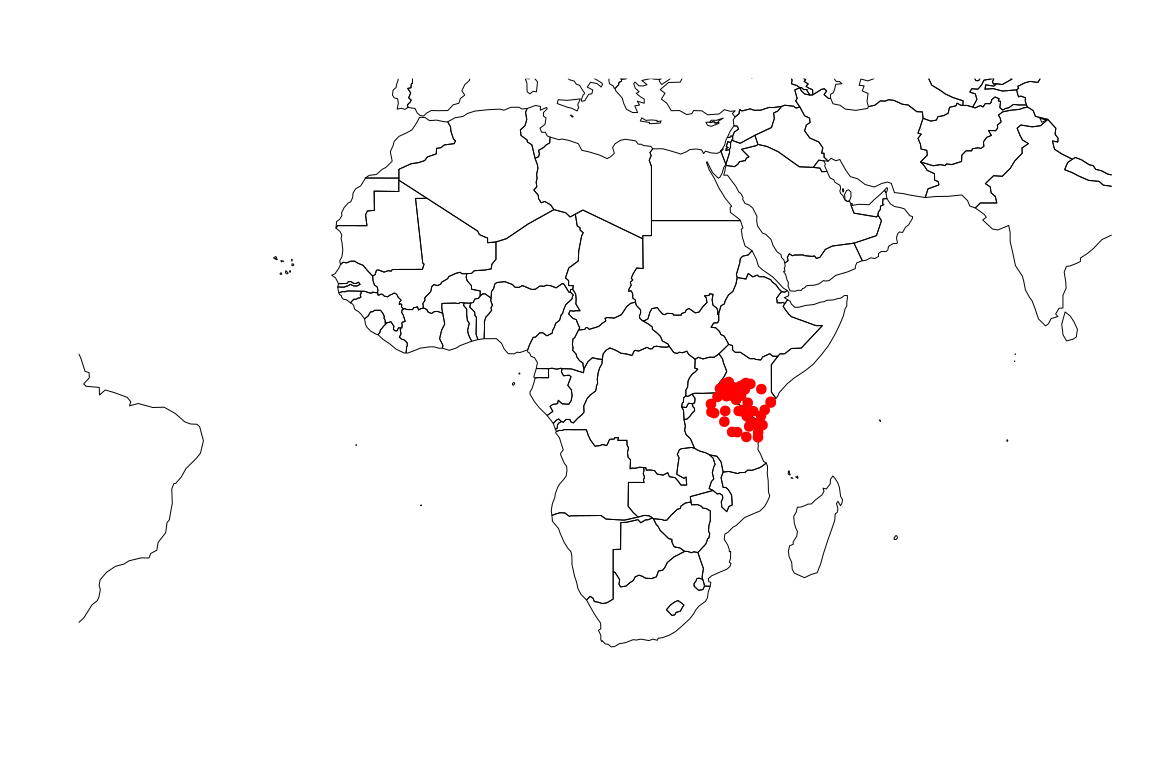
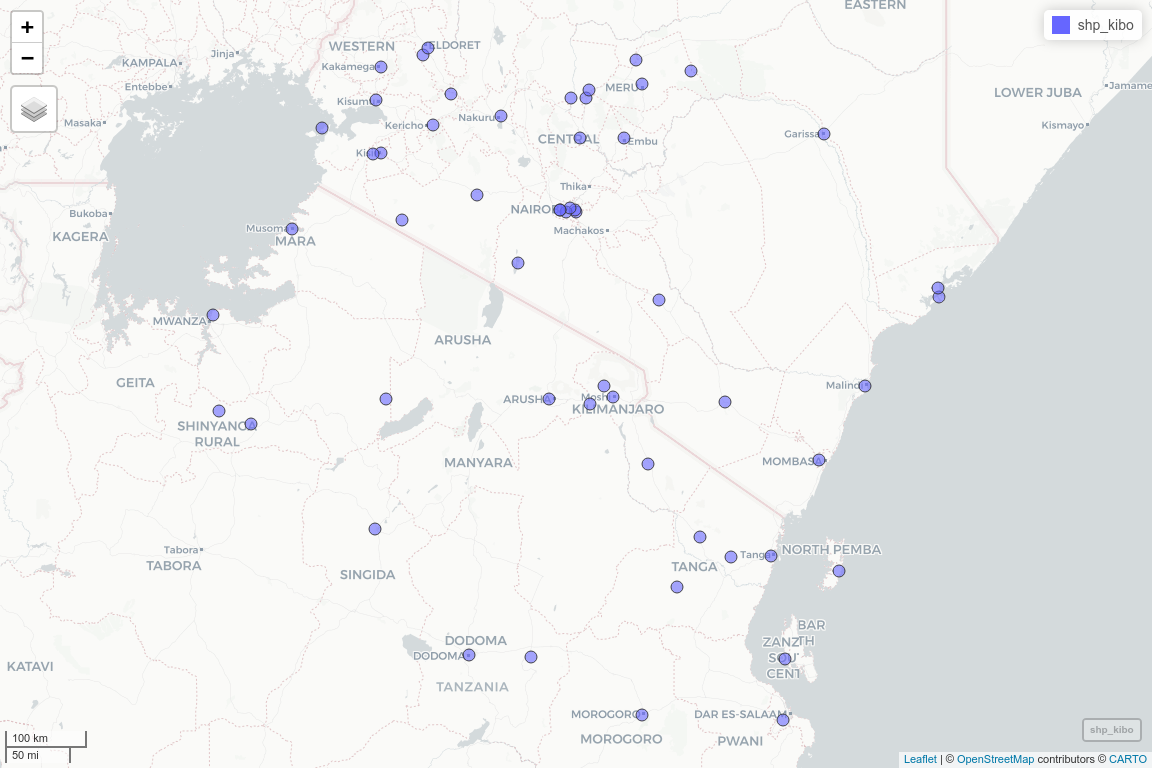
{rworldmap} --> {mapview}

diff --git a/README.md b/README.md
@@ -73,6 +73,8 @@ numerics. For instance, let’s search for GSOD stations in a circle of
 500 km around Kibo summit, Mt. Kilimanjaro, Tanzania. The referring
 coordinates are `c(37.359031, -3.065053)`.
 
+    library(mapview)
+
     shp_kibo <- stationFromCoords(x = 37.359031, y = -3.065053, width = 500)
     # or: stationFromCoords(x = c(37.359031, -3.065053), width = 500)
     # or: stationFromCoords(x = SpatialPoints(data.frame(x = 37.359031, 
@@ -80,13 +82,9 @@ coordinates are `c(37.359031, -3.065053)`.
     #                                         proj4string = CRS("+init=epsg:4326")), 
     #                       width = 500)
 
-    rworldmap::mapGriddedData(
-      mapRegion = "africa"
-      , plotData = FALSE
-      , borderCol = "black"
-      , addLegend = FALSE
+    mapview(
+      shp_kibo
     )
-    points(sf::st_coordinates(shp_kibo), col = "red", pch = 20, cex = 2)
 
 ![](figure/stationFromCoords-1.png)
 
@@ -115,13 +113,9 @@ automatically disabled.
     )
     shp_kili_south <- stationFromExtent(bb = bbox_kibo_south)
 
-    rworldmap::mapGriddedData(
-      mapRegion = "africa"
-      , plotData = FALSE
-      , borderCol = "black"
-      , addLegend = FALSE
+    mapview(
+      shp_kili_south
     )
-    points(sf::st_coordinates(shp_kili_south), col = "red", pch = 20, cex = 2)
 
 ![](figure/stationFromExtent-1.png)
 
